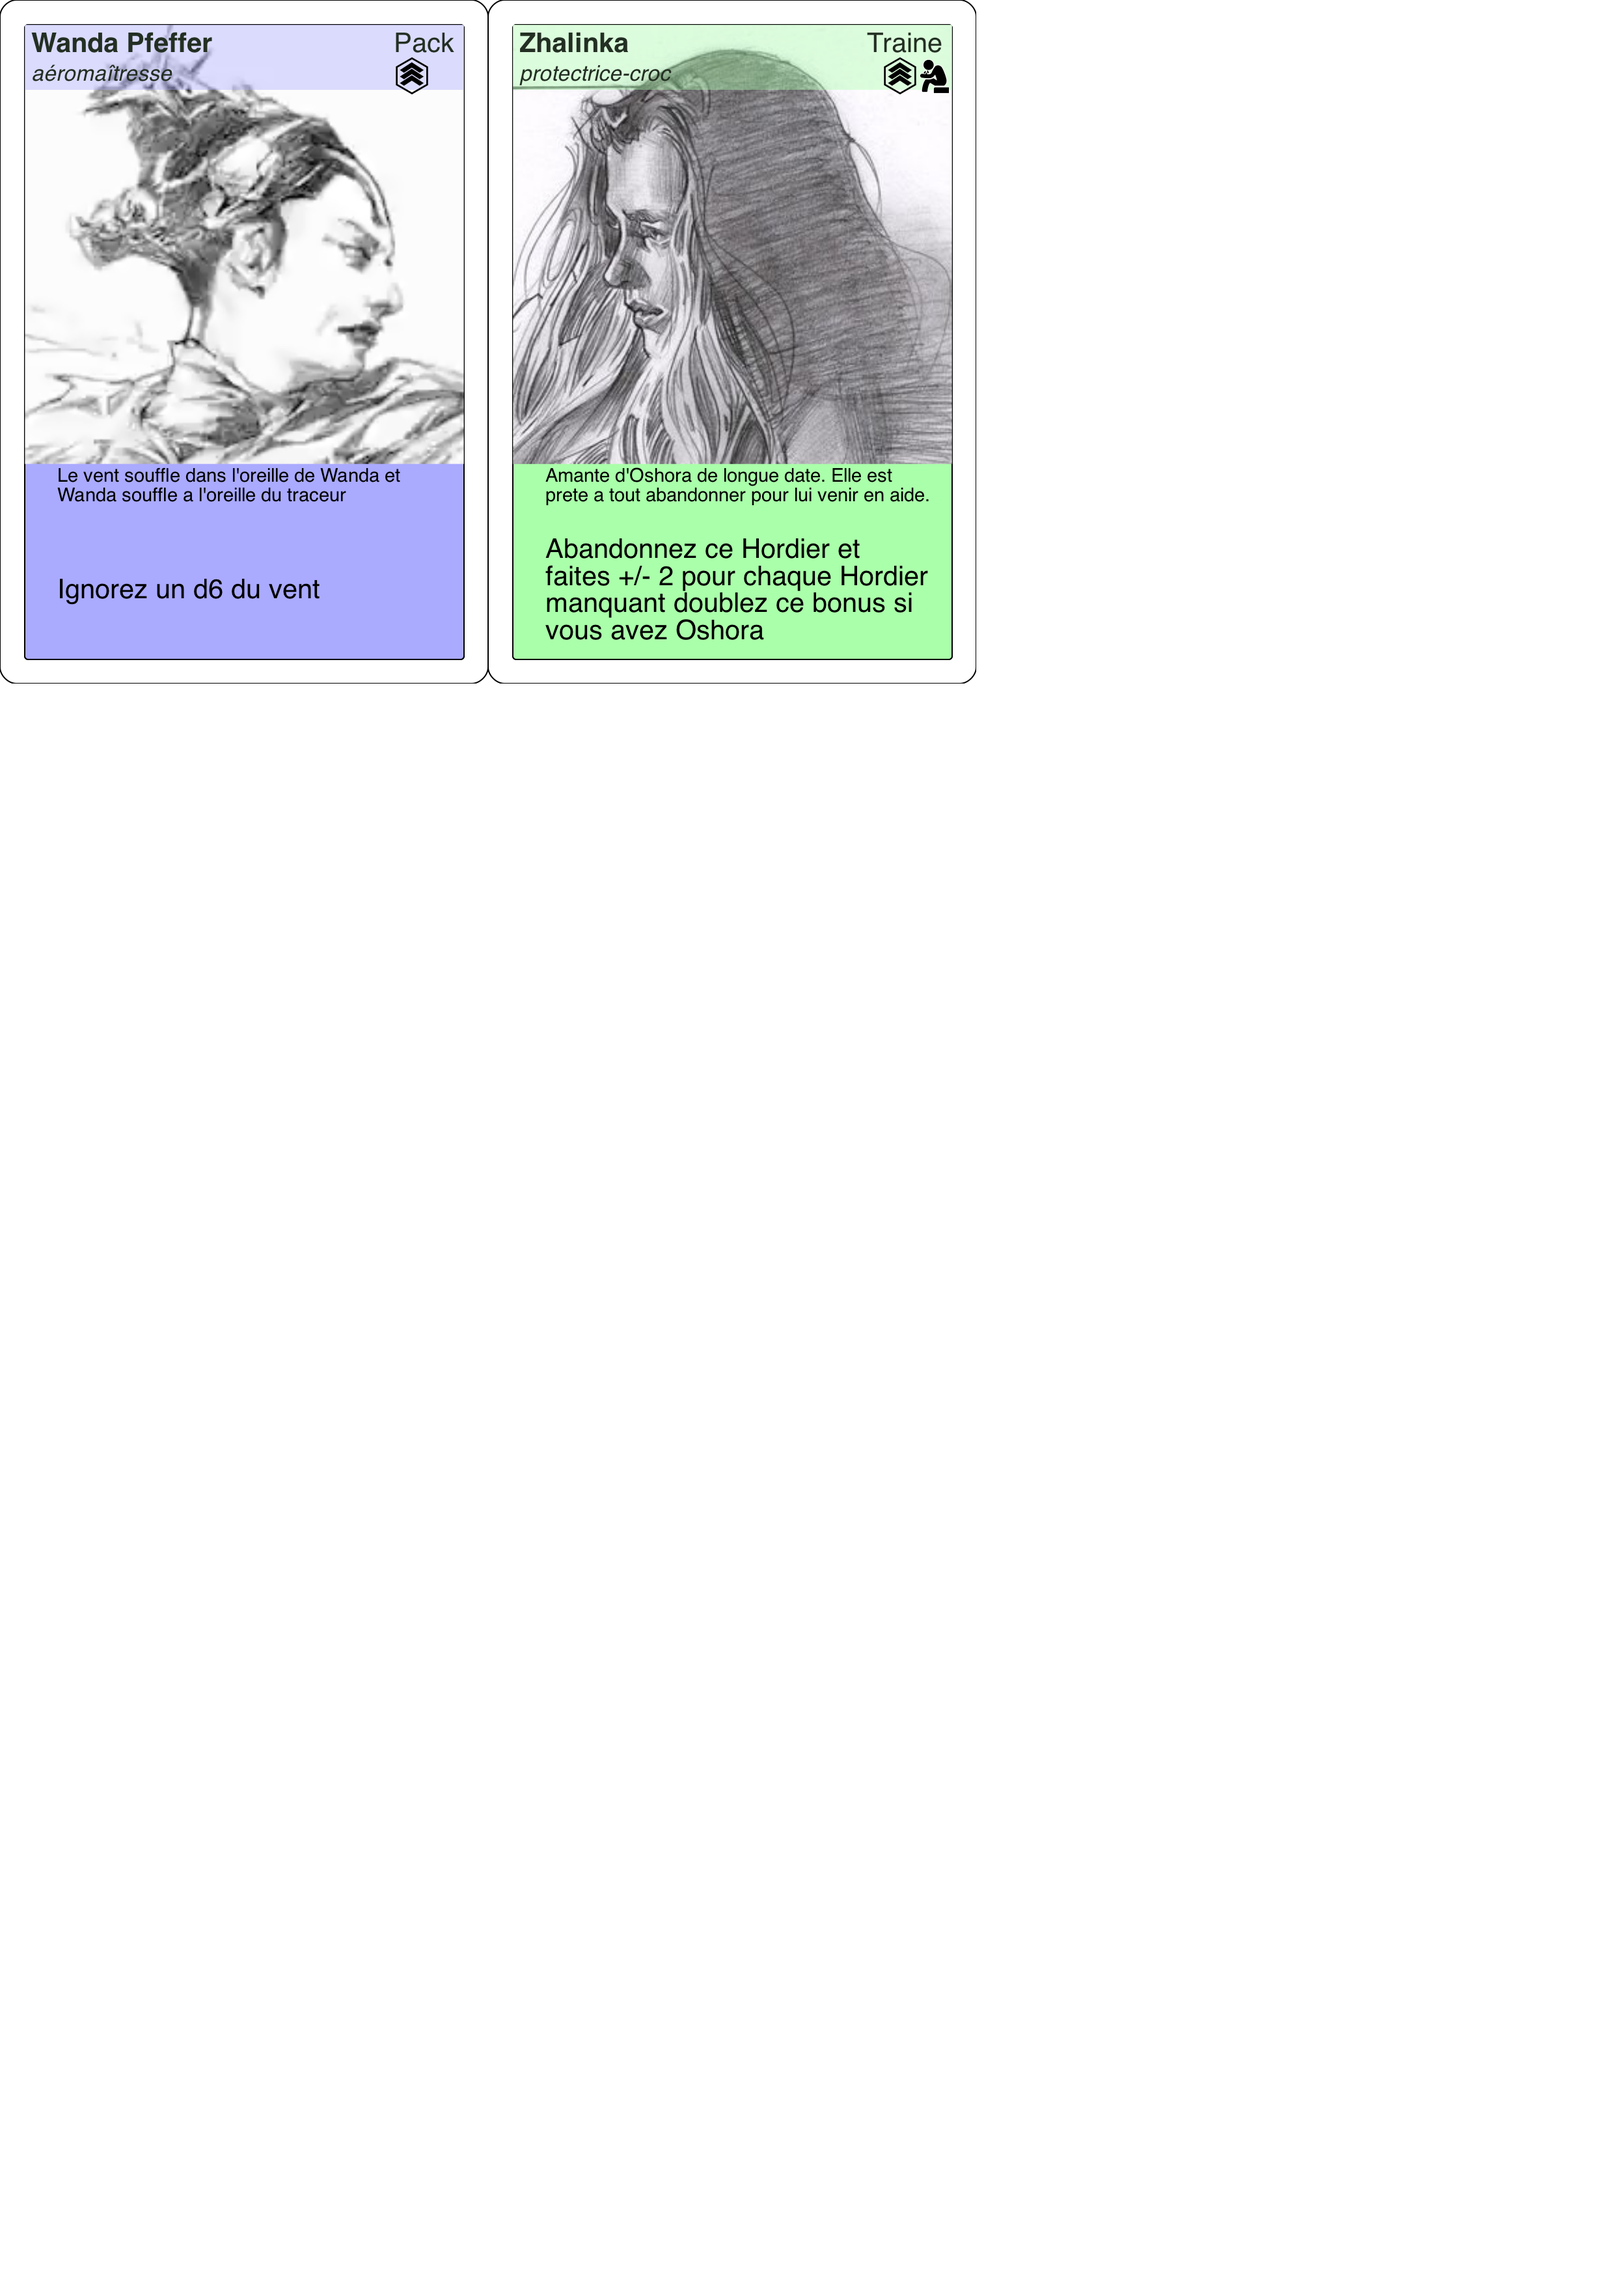
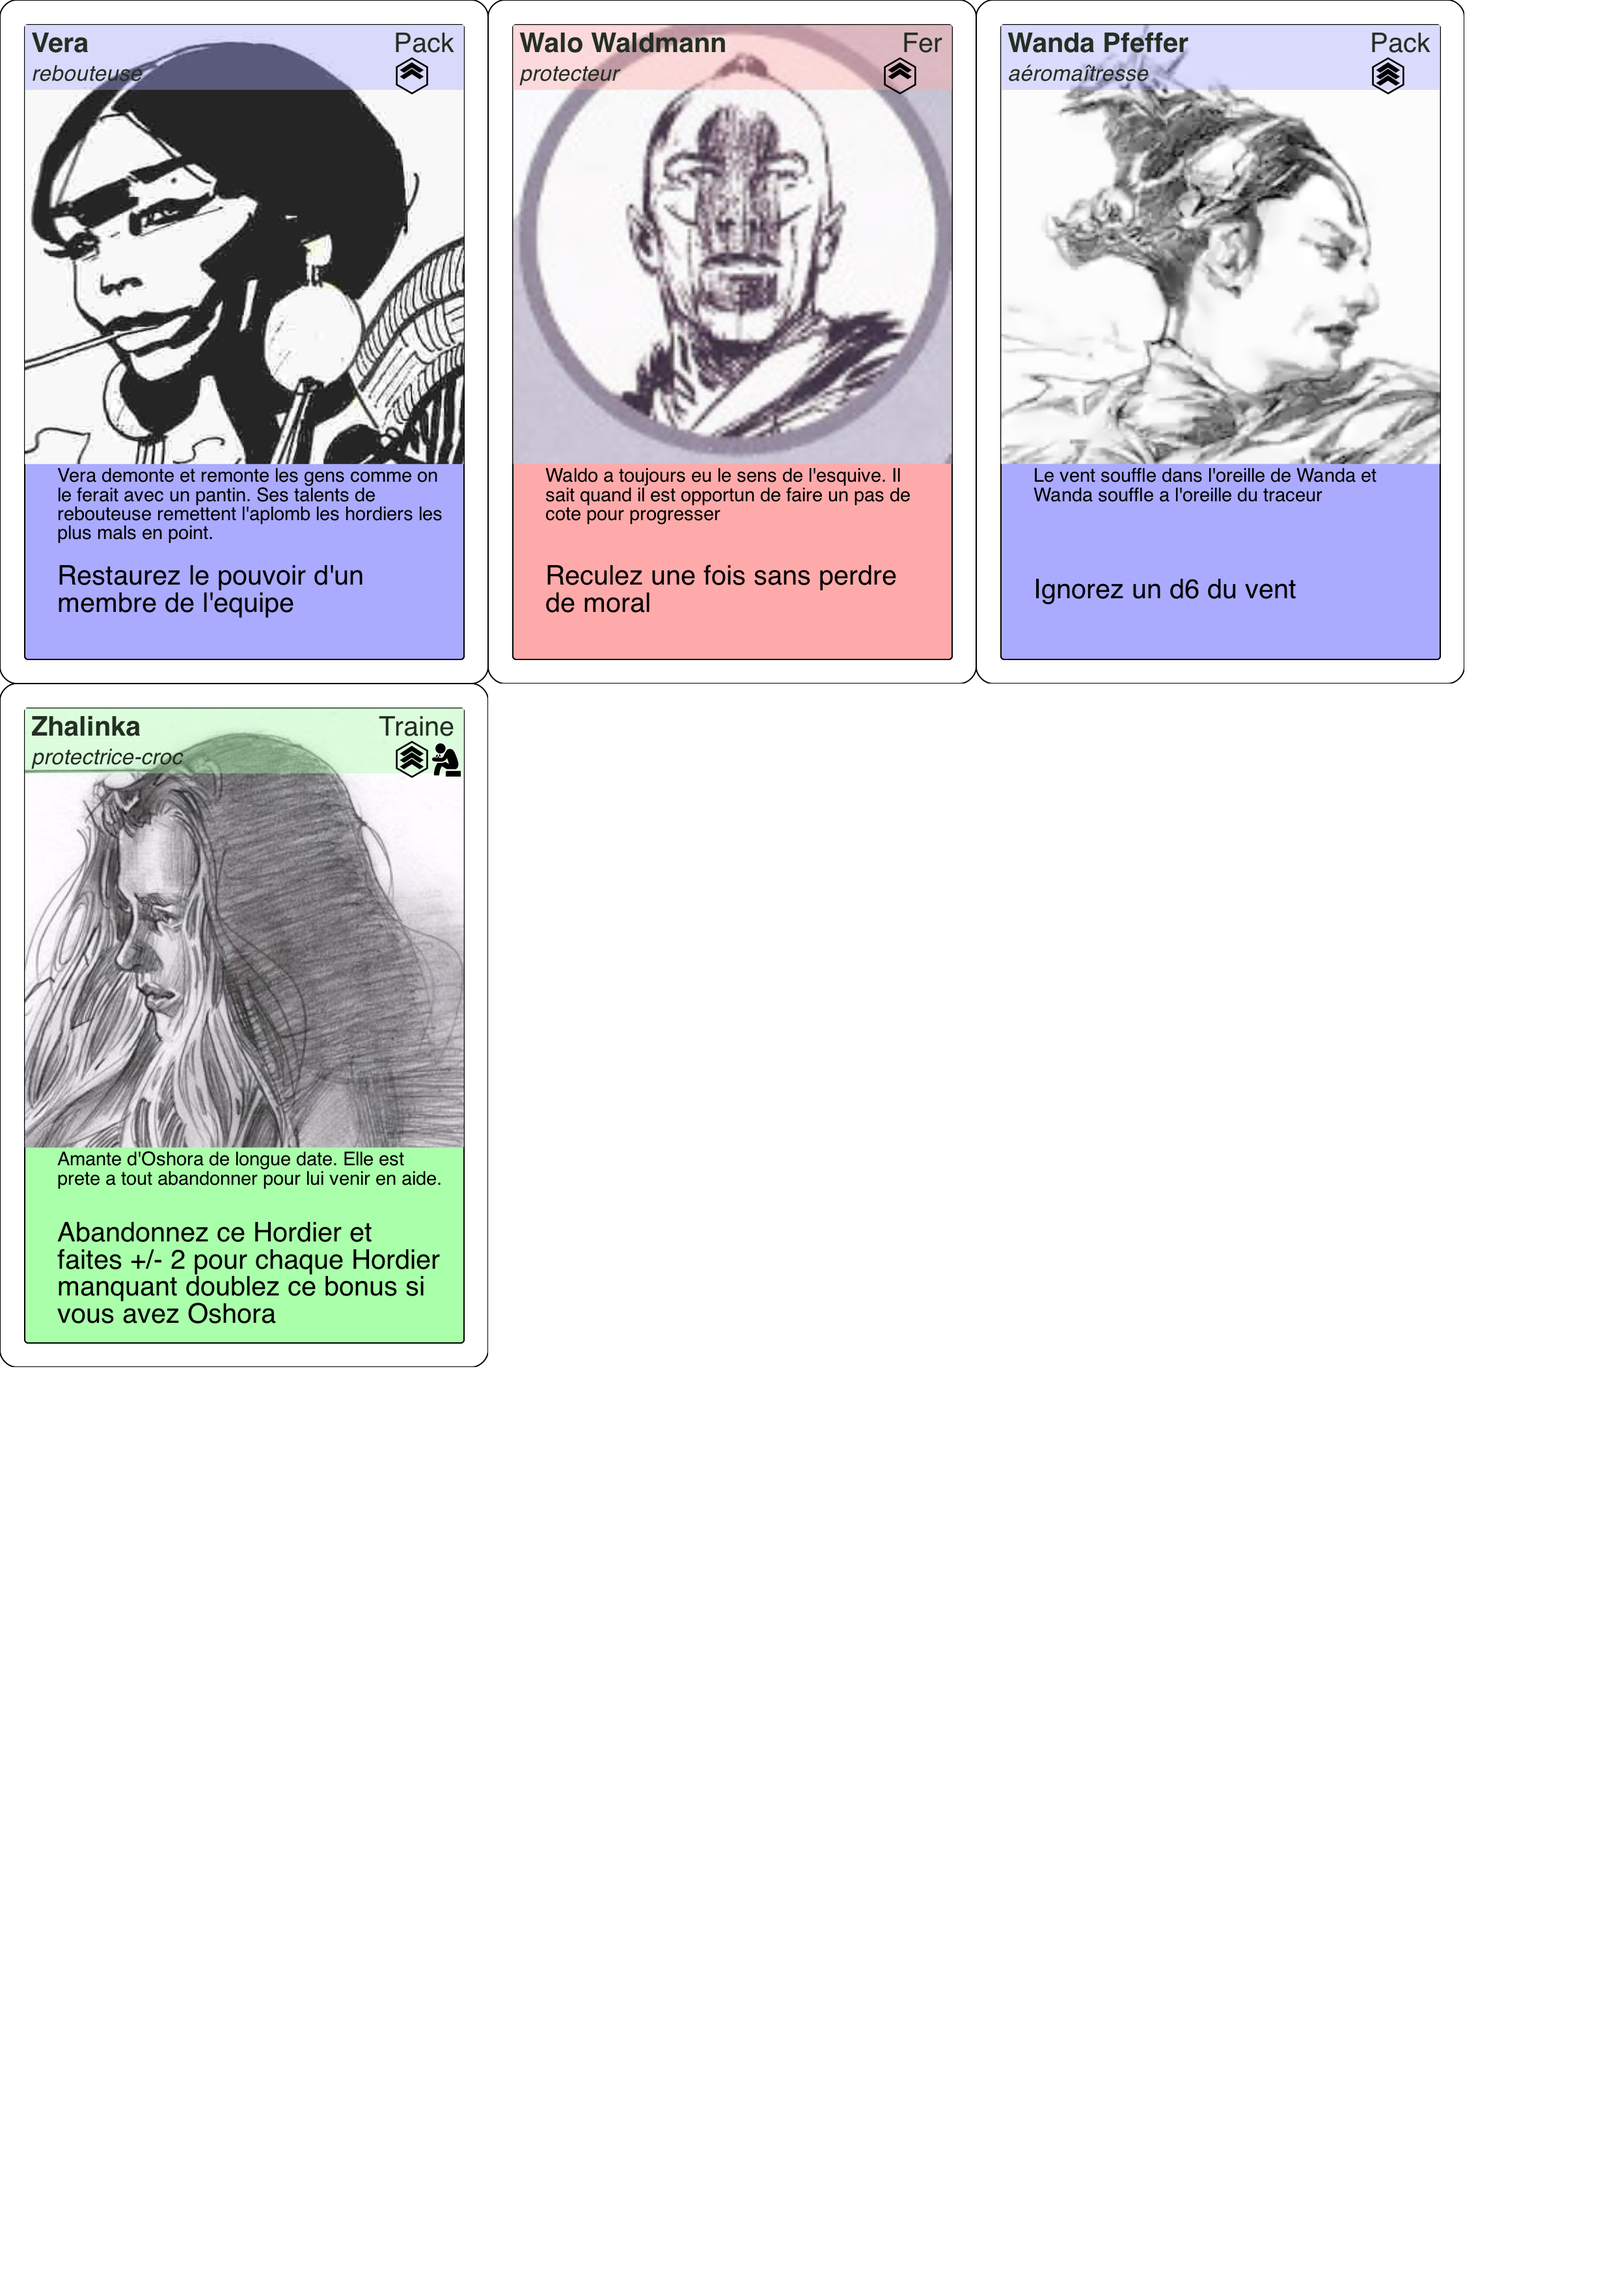
2 Nouveaux persos et des terrains du desert revus

Changed region(s): [[0.0, 0.0, 0.5899, 0.3108], [0.0, 0.3108, 0.3105, 0.5905], [0.621, 0.0, 0.9004, 0.3108]]

diff --git a/readme.md b/readme.md
@@ -261,11 +261,12 @@ Ces tuiles ne peuvent pas toucher **Alticcio**.
 
 # Bonus: 
 ## Une bande son est disponible sur deezer et sur youtube:
-Youtube: https://www.youtube.com/watch?v=kkweDEqT2lI&list=PLq2AWvcoUGR2n7MPpAYIaI2bszStPUblE
-Deezer: http://www.deezer.com/album/4605691
+- Youtube: https://www.youtube.com/watch?v=kkweDEqT2lI&list=PLq2AWvcoUGR2n7MPpAYIaI2bszStPUblE
+- Deezer: http://www.deezer.com/album/4605691
 
-http://arnoalyvan.com/la-horde-du-contrevent/-u5
-https://docplayer.fr/56319913-La-horde-du-contrevent.html
+Autres documents:
+- http://arnoalyvan.com/la-horde-du-contrevent/-u5
+- https://docplayer.fr/56319913-La-horde-du-contrevent.html
 
 # Credits
 ## Un grand merci a Emilie et son site qui a libere mon imagination pour trouver les noms et les descriptions de mes personnages
@@ -283,6 +284,8 @@ https://squib.readthedocs.io/
 * Chaque joueur joue une horde a part
   * Les joueurs peuvent avoir des leaders differents
   * Les joureurs peuvent avoir des plateaux de jeu differents (#FER, #PACK, #TRAINE)
+
+
 
 ### En asymetrique
 * Chaque joueur peut incarner un peuple different avec des objectifs differents:
@@ -355,51 +358,3 @@ Les pouvoirs passifs sont generalement moins puissants et surtout permanents. Il
 * Le type de terrain
 * Des suites de terrain, vent
 * Une configuration speciale de terrains adjacents
-<<<<<<< HEAD
-=======
-
-
-# Chapitres
-
-## Chapitre 1
-- **Depart**: Aberlaas
-- **Arrivee**: Port-Choon
-- **Distance**: 6 cases
-- **Description**: L'objectif de ce niveau est de traverser une grande variete de paysages et aller depuis Aberlaas vert Port-Choon. Le niveau se compose de 20 tuiles terrain, de 3 tuiles villages abrites (un de chaque couleur).
-- **Repartition des tuiles**: Installez entre chaque village 2 tuiles neutres. Ainsi qu'entre **Aberlaas** et le premier village et entre le dernier village et **Port-Choon**.
-
-## Chapitre 2
-- **Depart**: Port-Choon
-- **Arrivee**: Chawondasee
-- **Distance**: 4 cases
-- **Description**: L'objectif de ce niveau est de choisir entre la trace directe a travers les tuiles d'eau ou de faire le tour de la flaque de Lapsane. Le niveau se compose de 10 tuiles terrain d'eau, 10 tuiles terrain neutre, de 2 tuiles villages abrites.
-- **Repartition des tuiles**: Les tuiles de la flaque doivent etre entre le depart et l'arrivee. Il doit y avoir 3 tuiles entre chaque villages. Entre **Port-Choon** et le premier village ainsi qu'entre le dernier village et **Chawondasee**, il doit y avoir 3 tuiles. La tour fontaine doit avoir 3 tuiles de **Port-Choon** et 3 tuiles de **Chawondasee**. Entre **Chawondasee** et **Port-Choon** il doit y avoir au moins 3 tuiles.
-
-## Chapitre 3
-- **Depart**: Chawondasee
-- **Arrivee**: Alticcio
-- **Distance**: 5 cases
-- **Description**: L'objectif est de compose entre les tuiles neutres et les tuiles desertiques. Le niveau se compose de 10 tuiles terrain desert, 10 tuiles terrain neutre, de 2 tuiles villages abrites.
-- **Repartition des tuiles**: La majorite des tuiles desert doivent se trouver sur la trace directe. Les tuiles desert doivent toutes se toucher. Il doit y avoir 3 tuiles entre chaque villages. Entre **Chawondasee** et le premier village ainsi qu'entre le dernier village et **Alticcio**, il doit y avoir 3 tuiles. Entre **Chawondasee** et **Alticcio** il doit y avoir au moins 4 tuiles.
-
-## Chapitre 4
-- **Depart**: Alticcio
-- **Arrivee**: Camp Boban
-- **Distance**: 10 cases
-- **Description**: L'objectif de ce chapitre est de passer par la Porte d'Hurle. Le niveau se compose de 8 tuiles terrain tourbiere, 20 tuiles terrain neutre, de 2 tuiles villages abrites et 1 tuile desert.
-- **Repartition des tuiles**: Placez la tuile desert juste apres Alticcio puis la porte d'Hurle. Entre **Porte d'Hurle** et le seul village et **Camp Boban**, il doit y avoir 4 tuiles. Les 28 tuiles restantes peuvent etre disposees a votre discretion. Ces tuiles ne peuvent pas toucher **Alticcio**.
-
-# Bonus: 
-## Une bande son est disponible sur deezer et sur youtube:
-Youtube: https://www.youtube.com/watch?v=kkweDEqT2lI&list=PLq2AWvcoUGR2n7MPpAYIaI2bszStPUblE
-Deezer: http://www.deezer.com/album/4605691
-
-http://arnoalyvan.com/la-horde-du-contrevent/-u5
-https://docplayer.fr/56319913-La-horde-du-contrevent.html
-
-# Credits
-## Un grand merci a Emilie et son site qui a libere mon imagination pour trouver les noms et les descriptions de mes personnages
-https://fr.fantasynamegenerators.com/
-
-## Generateur de cartes: Squib
-https://squib.readthedocs.io/
